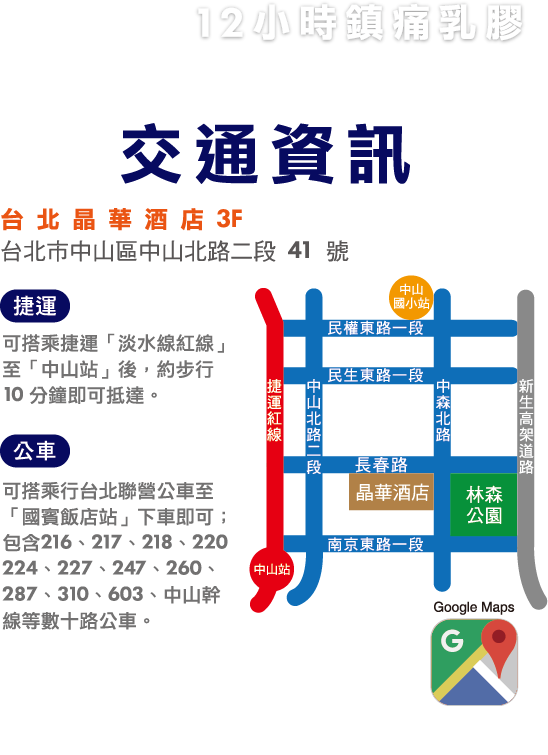
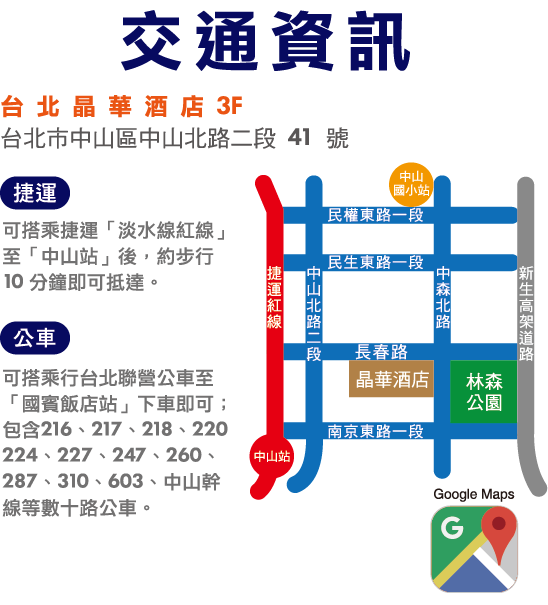
update

diff --git a/css/default.css b/css/default.css
@@ -3165,16 +3165,16 @@ html, body {
   z-index: 5;
 }
 .bigContainer .container .p1 .content {
-  width: 574px;
-  height: 823px;
+  width: 580px;
+  height: 546px;
   background-image: url("../images/p01.png");
 }
 .bigContainer .container.channel_1 .p1 {
   display: block;
 }
 .bigContainer .container .p2 .content {
-  width: 551px;
-  height: 729px;
+  width: 552px;
+  height: 565px;
   background-image: url("../images/p02.png");
 }
 .bigContainer .container.channel_2 .p2 {
@@ -3182,7 +3182,7 @@ html, body {
 }
 .bigContainer .container .p3 .content {
   width: 519px;
-  height: 530px;
+  height: 346px;
   background-image: url("../images/p03.png");
 }
 .bigContainer .container.channel_3 .p3 {
@@ -3190,7 +3190,7 @@ html, body {
 }
 .bigContainer .container .p4 .content {
   width: 548px;
-  height: 755px;
+  height: 605px;
   background-image: url("../images/p04.png");
 }
 .bigContainer .container.channel_4 .p4 {
@@ -3230,7 +3230,7 @@ html, body {
   display: none;
 }
 .page .content {
-  top: 110px;
+  top: 250px;
   left: 50%;
   -moz-transform: translateX(-50%);
   -ms-transform: translateX(-50%);
@@ -3341,45 +3341,35 @@ html, body {
 
 .page .topWrap {
   width: 100%;
-  top: 10px;
+  top: 0px;
   left: 0;
-  background-image: url("../images/top2.png");
+  background-image: url("../images/top.png");
   height: 235px;
   background-size: 100% 100%;
   position: absolute;
-}
-.page .topWrap .logoPic {
-  width: 228px;
-  height: 151px;
-  background-image: url("../images/logotop.png");
-  position: absolute;
-  top: 50px;
-  left: 0;
+  z-index: 5;
 }
 
-.p1 .topWrap {
-  top: 0;
-  background-image: url("../images/top.png");
-  height: 235px;
-}
-.p1 .topWrap .logoPic {
-  top: 60px;
+.p1 .txt {
+  width: 93px;
+  height: 8px;
+  background-image: url("../images/word.png");
+  position: absolute;
+  left: 15px;
+  bottom: 90px;
 }
 .p1 .manPic {
-  width: 296px;
-  height: 500px;
-  background-image: url("../images/p01_1.png");
+  width: 270px;
+  height: 754px;
+  background-image: url("../images/man.png");
   position: absolute;
   right: 0;
-  bottom: 0;
-}
-.p1 .content {
-  top: 0;
+  bottom: 85px;
 }
 
 .pageBtn {
   position: absolute;
-  top: 300px;
+  top: 130px;
   left: 40px;
   width: 200px;
   height: 250px;
@@ -3388,7 +3378,7 @@ html, body {
   left: 300px;
 }
 .pageBtn.mapBtn {
-  top: 570px;
+  top: 430px;
   left: 360px;
 }
 

diff --git a/sass/_index.sass b/sass/_index.sass
@@ -72,7 +72,7 @@ html,body
 	+fullPage
 	display: none
 	.content
-		top: 110px
+		top: 250px
 		left: 50%
 		+transform(translateX(-50%))
 		position: relative
@@ -157,43 +157,48 @@ html,body
 .page 
 	.topWrap
 		width: 100%
-		top: 10px
+		top: 0px
 		left: 0
-		+bgi('top2.png')
-		height: 235px
-		background-size: 100% 100%
-		position: absolute
-		.logoPic
-			+bg('logotop.png') 
-			position: absolute
-			top: 50px	
-			left: 0
-.p1
-	.topWrap
-		top: 0
 		+bgi('top.png')
 		height: 235px
-		.logoPic
-			top: 60px
-		
+		background-size: 100% 100% 
+		position: absolute
+		z-index: 5
+		// .logoPic
+		// 	+bg('logotop.png') 
+		// 	position: absolute
+		// 	top: 50px	
+		// 	left: 0
+.p1
+	// .topWrap
+	// 	top: 0
+	// 	+bgi('top.png')
+	// 	height: 235px
+	// 	.logoPic
+	// 		top: 60px
+	.txt
+		+bg('word.png')
+		position: absolute
+		left: 15px
+		bottom: 90px
 		
 	.manPic
-		+bg('p01_1.png')
+		+bg('man.png')
 		position: absolute
 		right: 0
-		bottom: 0
-	.content
-		top: 0
+		bottom: 85px
+	// .content
+	// 	top: 0
 
 .pageBtn
 	position: absolute
-	top: 300px
+	top: 130px
 	left: 40px
 	// border: 1px solid #000			
 	width: 200px
-	height: 250px
+	height: 250px 
 	&.calendarBtn
 		left: 300px
 	&.mapBtn
-		top: 570px
+		top: 430px
 		left: 360px

diff --git a/index.html b/index.html
@@ -49,6 +49,7 @@
         </div>
         <div class="manPic"></div>
         <div class="content"></div>
+        <div class="txt"></div>
       </div>
       <div class="page p2">
           <div class="topWrap">
